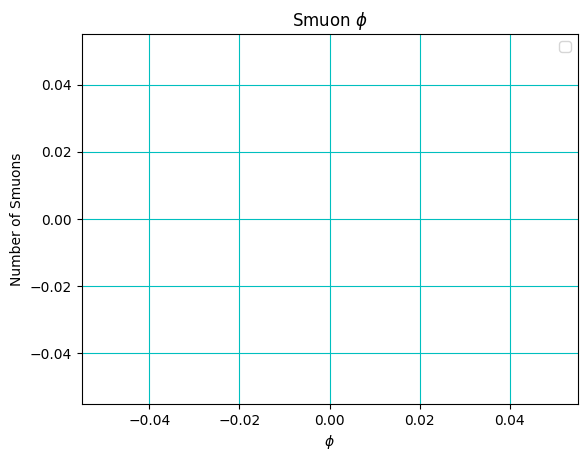
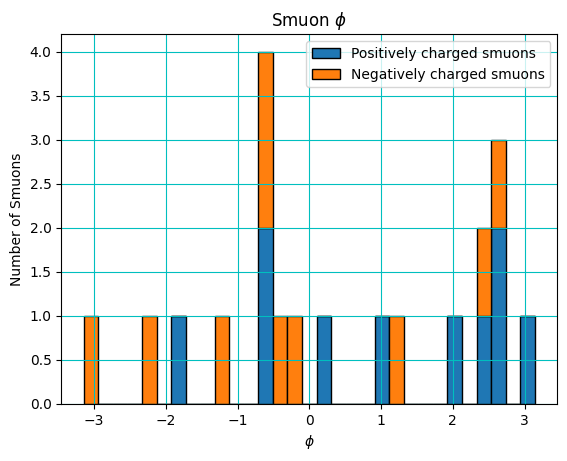
Actually fixes eta and phi plot errors in basic_histograms.py

diff --git a/basic_validation/basic_histograms.py b/basic_validation/basic_histograms.py
@@ -66,7 +66,8 @@ etas = [pos_particle_etas, neg_particle_etas]
 eta_extrema = max( np.abs( np.min(etas) ), np.max(etas) ) 
 
 eta_bin_width = 1
-eta_num_bins = np.linspace(-eta_extrema, eta_extrema + eta_bin_width, eta_bin_width)
+#eta_num_bins = np.linspace(0 - eta_extrema, eta_extrema + eta_bin_width, eta_bin_width)
+eta_num_bins = np.linspace(-eta_extrema - eta_bin_width, eta_extrema + eta_bin_width, eta_bin_width)
 
 plt.hist(etas, bins=eta_num_bins, histtype='bar', label=tags, stacked=True, edgecolor='black')
 
@@ -84,9 +85,9 @@ plt.clf()
 # --- phi ---
 phis = [pos_particle_phis, neg_particle_phis]
 
-phi_bin_width = 1 
+#phi_bin_width = np.pi / 16 
 #phi_num_bins = np.linspace( -(np.pi), np.pi + phi_bin_width, phi_bin_width )
-phi_num_bins = np.linspace( -3.15, 3.15 + phi_bin_width, phi_bin_width )
+phi_num_bins = np.linspace( -np.pi, np.pi, 32 )
 
 plt.hist(phis, bins=phi_num_bins, histtype='bar', label=tags, stacked=True, edgecolor='black')
 
